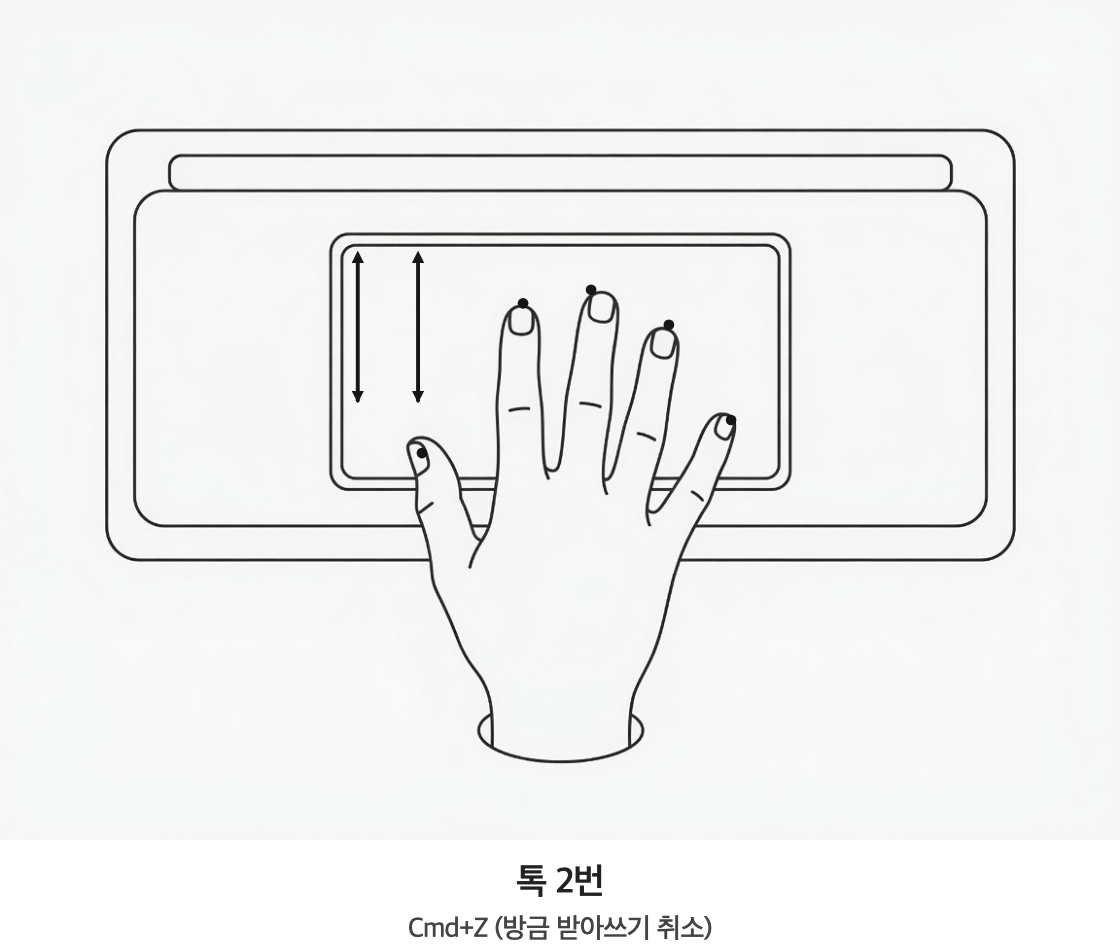
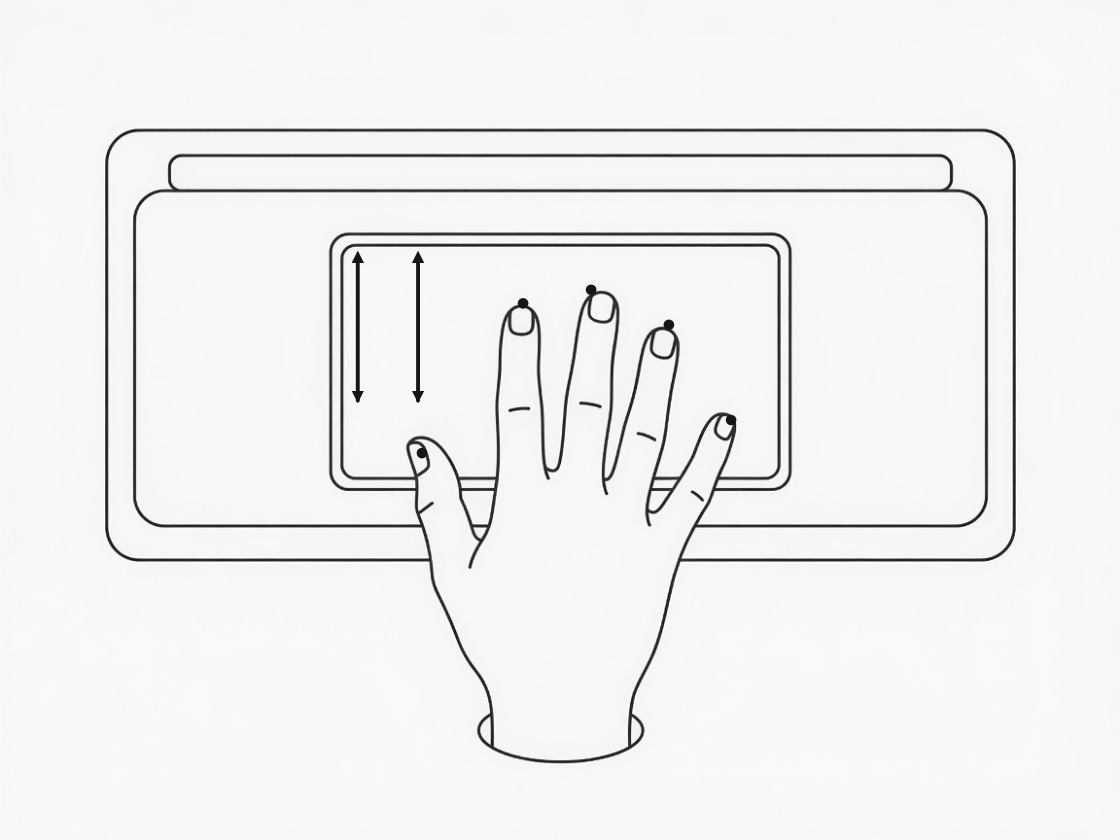
docs: 트랙패드 그림을 한 장씩 크게, 캡션은 마크다운으로
세 장을 한 줄에 넣으면 GitHub에서 너무 작아져서 세로로 나누고,
이미지 안의 글자는 빼서 README 본문에 둔다.

Changed region(s): [[0.0938, 0.1238, 0.9062, 0.9905]]

diff --git a/docs/images/trackpad-figures.html b/docs/images/trackpad-figures.html
@@ -47,21 +47,6 @@
     height: 100%;
     pointer-events: none;
   }
-  figcaption {
-    margin-top: 10px;
-    text-align: center;
-    font-size: 18px;
-    font-weight: 600;
-    letter-spacing: -0.02em;
-    line-height: 1.35;
-  }
-  figcaption small {
-    display: block;
-    margin-top: 2px;
-    font-size: 14px;
-    font-weight: 500;
-    color: #444;
-  }
 </style>
 </head>
 <body>
@@ -102,7 +87,6 @@
         </g>
       </svg>
     </div>
-    <figcaption>길게 누름<small>받아쓰기 (PTT)</small></figcaption>
   </figure>
 
   <figure id="tap">
@@ -117,7 +101,6 @@
         <circle cx="752" cy="432" r="5.5" fill="#161616"/>
       </svg>
     </div>
-    <figcaption>톡 1번<small>Enter (전송)</small></figcaption>
   </figure>
 
   <figure id="double">
@@ -133,7 +116,6 @@
         <circle cx="752" cy="432" r="5.5" fill="#161616"/>
       </svg>
     </div>
-    <figcaption>톡 2번<small>Cmd+Z (방금 받아쓰기 취소)</small></figcaption>
   </figure>
 </div>
 </body>
